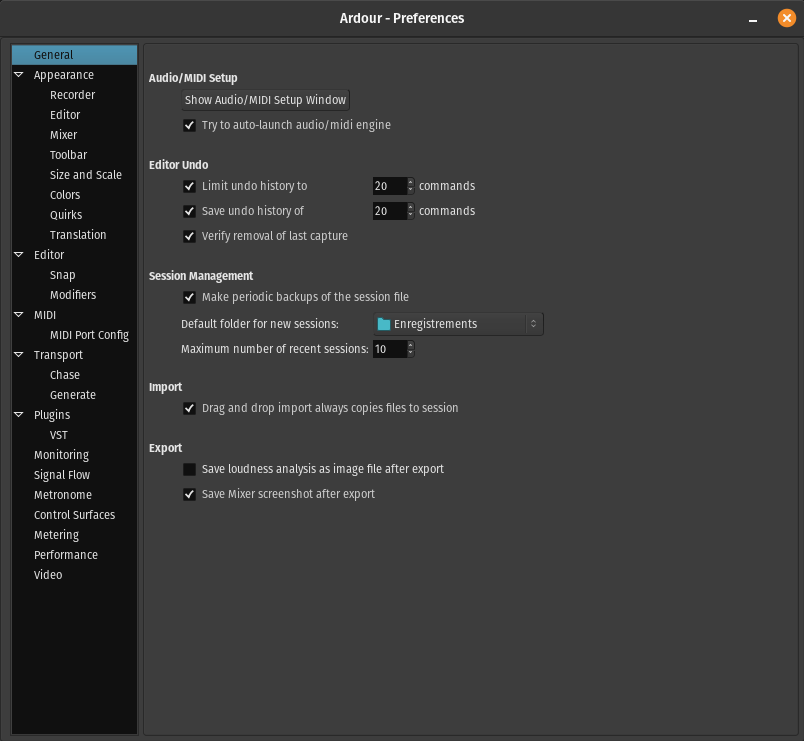
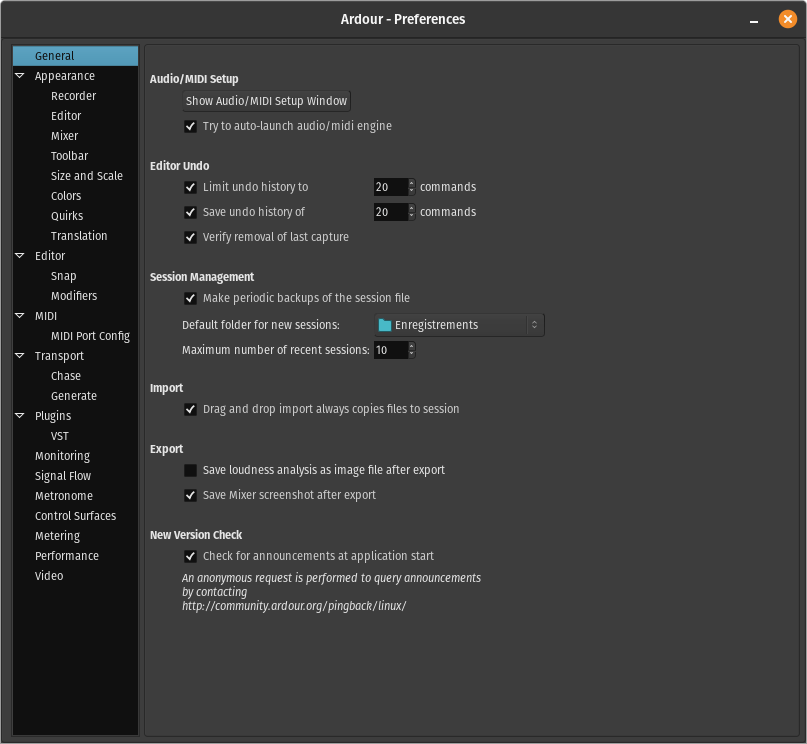
6.9 : update to the preferences page

diff --git a/include/preferences.html b/include/preferences.html
@@ -146,6 +146,15 @@
       </li>
     </ul>
   </li>
+  <li>
+    <dfn>New Version Check</dfn>
+    <ul>
+      <li>
+        <dfn>Check for announcements at application start</dfn> sends an
+        anonymous request to Ardour's server to check for a new version.
+      </li>
+    </ul>
+  </li>
 </ul>
   
 <h2 id="preferences-appearance">Appearance</h2>
@@ -546,6 +555,11 @@
         supersede Ardour's.
       </li>
       <li>
+        <dfn>Show/Hide splash screen instead of setting z-axis stack order</dfn>:
+        Hides the splash instead of re-layering it. This setting requires a restart
+        of Ardour to take effect.
+      </li>
+      <li>
         <dfn>All floating windows are dialogs</dfn>: when enabled, Ardour will
         use type &quot;Dialog&quot; for all floating windows instead of using type
         &quot;Utility&quot; for some of them. This may help usability with some
@@ -642,7 +656,7 @@
         scrolls when dragging the playhead outside of the visible canvas.
       </li>
       <li>
-        <dfn>Limit zooming &amp; summary view to X minutes beyond session extents:</dfn>
+        <dfn>Limit zoom &amp; summary view beyond session extents to:</dfn>
         prevents the zoom out both in the editor and the summary, to show anything past
         the chosen time after the end marker, restraining the vision to only useful
         content.
@@ -675,7 +689,7 @@
         fade shape</a> is the default.
       </li>
       <li>
-        <dfn>Regions in active edit groups are edited together:</dfn> sets
+        <dfn>Regions in edit groups are edited together:</dfn> sets
         the criteria to see if editing actions apply to tracks grouped together
         in an group.
       </li>
@@ -1090,10 +1104,20 @@
   <li>
     <dfn>General</dfn>
     <ul>
+	  <li>
+        <dfn>Scan for [new] Plugins on Application Start</dfn> When
+    	  enabled new plugins are searched, tested and added to the cache
+    	  index on application start. When disabled new plugins will only be
+    	  available after triggering a 'Scan' manually.
+      </li>
       <li>
         <dfn>Always Display Plugin Scan Progress</dfn> When enabled a
         popup window showing plugin scan progress is displayed for indexing
         (cache load) and discovery (detect new plugins).
+      </li>
+      <li>
+        <dfn>Verbose Plugin Scan</dfn>: adds information about the plugin in the
+        <a href="@@status-bar">Log window</a>.
       </li>
       <li>
         <dfn>Make new plugins active</dfn> when enabled, any plugin added to a track
@@ -1183,24 +1207,17 @@
     <dfn>VST</dfn>
     <ul>
       <li>
-        <dfn>Enable Mac VST support (requires restart or re-scan)</dfn> makes a
+        <dfn>Enable Mac VST2 support (requires restart or re-scan)</dfn> makes a
         MacOs system able to run VST-Mac plugins. As stated, a new scan for plugins
         is required, be it manually or by restarting Ardour.
       </li>
       <li>
-        <dfn>Scan for [new] VST Plugins on Application Start</dfn> When
-    	  enabled new VST plugins are searched, tested and added to the cache
-    	  index on application start. When disabled new plugins will only be
-    	  available after triggering a 'Scan' manually.
+        <dfn>Enable Linux VST2 support (requires restart or re-scan)</dfn> makes a
+        Linux system able to run VST2 plugins.
       </li>
       <li>
-        <dfn>Verbose Plugin Scan</dfn>: adds information about the plugin in the
-        <a href="@@status-bar">Log window</a>.
-      </li>
-      <li>
-        <dfn>Scan Time Out</dfn> Specifies the default timeout for plugin
-    	  instantiation. Plugins that require more time to load will be
-        blacklisted. A value of &infin; disables the timeout.
+        <dfn>Enable VST3 support (requires restart or re-scan)</dfn> makes any
+        system able to run VST3 plugins.
       </li>
     </ul>
   </li>
@@ -1213,8 +1230,8 @@
         inserted into the processor box. A new VST plugin scan is then required.
       </li>
       <li>
-        <dfn>VST 2 Blacklist:</dfn> Clicking the <kbd class="menu">Clear</kbd>
-        button makes blacklisted VST plugins available to be added to the processor
+        <dfn>VST 2 Ignorelist:</dfn> Clicking the <kbd class="menu">Clear</kbd>
+        button makes ignored VST plugins available to be added to the processor
         box.
       </li>
       <li>
@@ -1242,7 +1259,7 @@
         <dfn>VST 3 Cache:</dfn> Same as above, for VST 3
       </li>
       <li>
-        <dfn>VST 3 Blacklist:</dfn> Same as above, for VST 3
+        <dfn>VST 3 Ignorelist:</dfn> Same as above, for VST 3
       </li>
       <li>
         <dfn>Additional VST3 Path:</dfn> The VST 3 specs clearly define where
@@ -1250,6 +1267,16 @@
         way to search other directories for plugin, it is out of spec and not
         recommanded.
       </li>
+      <li>
+        <dfn>Automatically show 'Micro Edit' tagged controls on the mixer-strip:</dfn>
+        displays the plugin's UI directly inside each mixer strip (inline), if the plugin
+        has a 'Micro Edit' <a hreg="@@plugin-selector">tag</a>.
+      </li>
+    </ul>
+  </li>
+  <li>
+    <dfn>VST2/VST3</dfn>
+    <ul>
       <li>
         <dfn>Conceal VST2 Plugin if matching LV3 exists</dfn> When 
         enabled, gives precedence to the VST3 (more up-to-date) version of
@@ -1266,7 +1293,7 @@
     <dfn>Audio Unit</dfn>
     <ul>
       <li>
-        <dfn>Scan for [new] AudioUnit Plugins on Application Start</dfn> When
+        <dfn>Enable Audio Unit support (requires restart or re-scan)</dfn> When
         enabled, new AU plugins are searched, tested and added to the cache
         index on application start. When disabled, new plugins will only be
         available after triggering a 'Scan' manually.
@@ -1277,8 +1304,8 @@
         inserted into the processor box. A new AU plugins scan is then required.
       </li>
       <li>
-        <dfn>AU Blacklist:</dfn> Clicking the <kbd class="menu">Clear</kbd>
-        button makes blacklisted AU plugins available to be added to the processor
+        <dfn>AU Ignorelist:</dfn> Clicking the <kbd class="menu">Clear</kbd>
+        button makes ignored AU plugins available to be added to the processor
         box.
       </li>
     </ul>
@@ -1586,6 +1613,14 @@
         <dfn>Signal processing uses:</dfn> sets how many cpu processors can be
           used to do signal processing. It can be set to use one up to all
           processors.
+      </li>
+      <li>
+        <dfn>Power Management, CPU DMA latency: </dfn> modern processors try
+        to aggressively transition to power saving when idle, even for a few
+        microseconds, hurting realtime performance by needing to wake to a
+        more active state. This setting counters this behaviour by setting
+        a maximum response time while low latency operation is desired.
+        <kbd class="menu">0</em> is the fastest response time.
       </li>
     </ul>
   </li>
